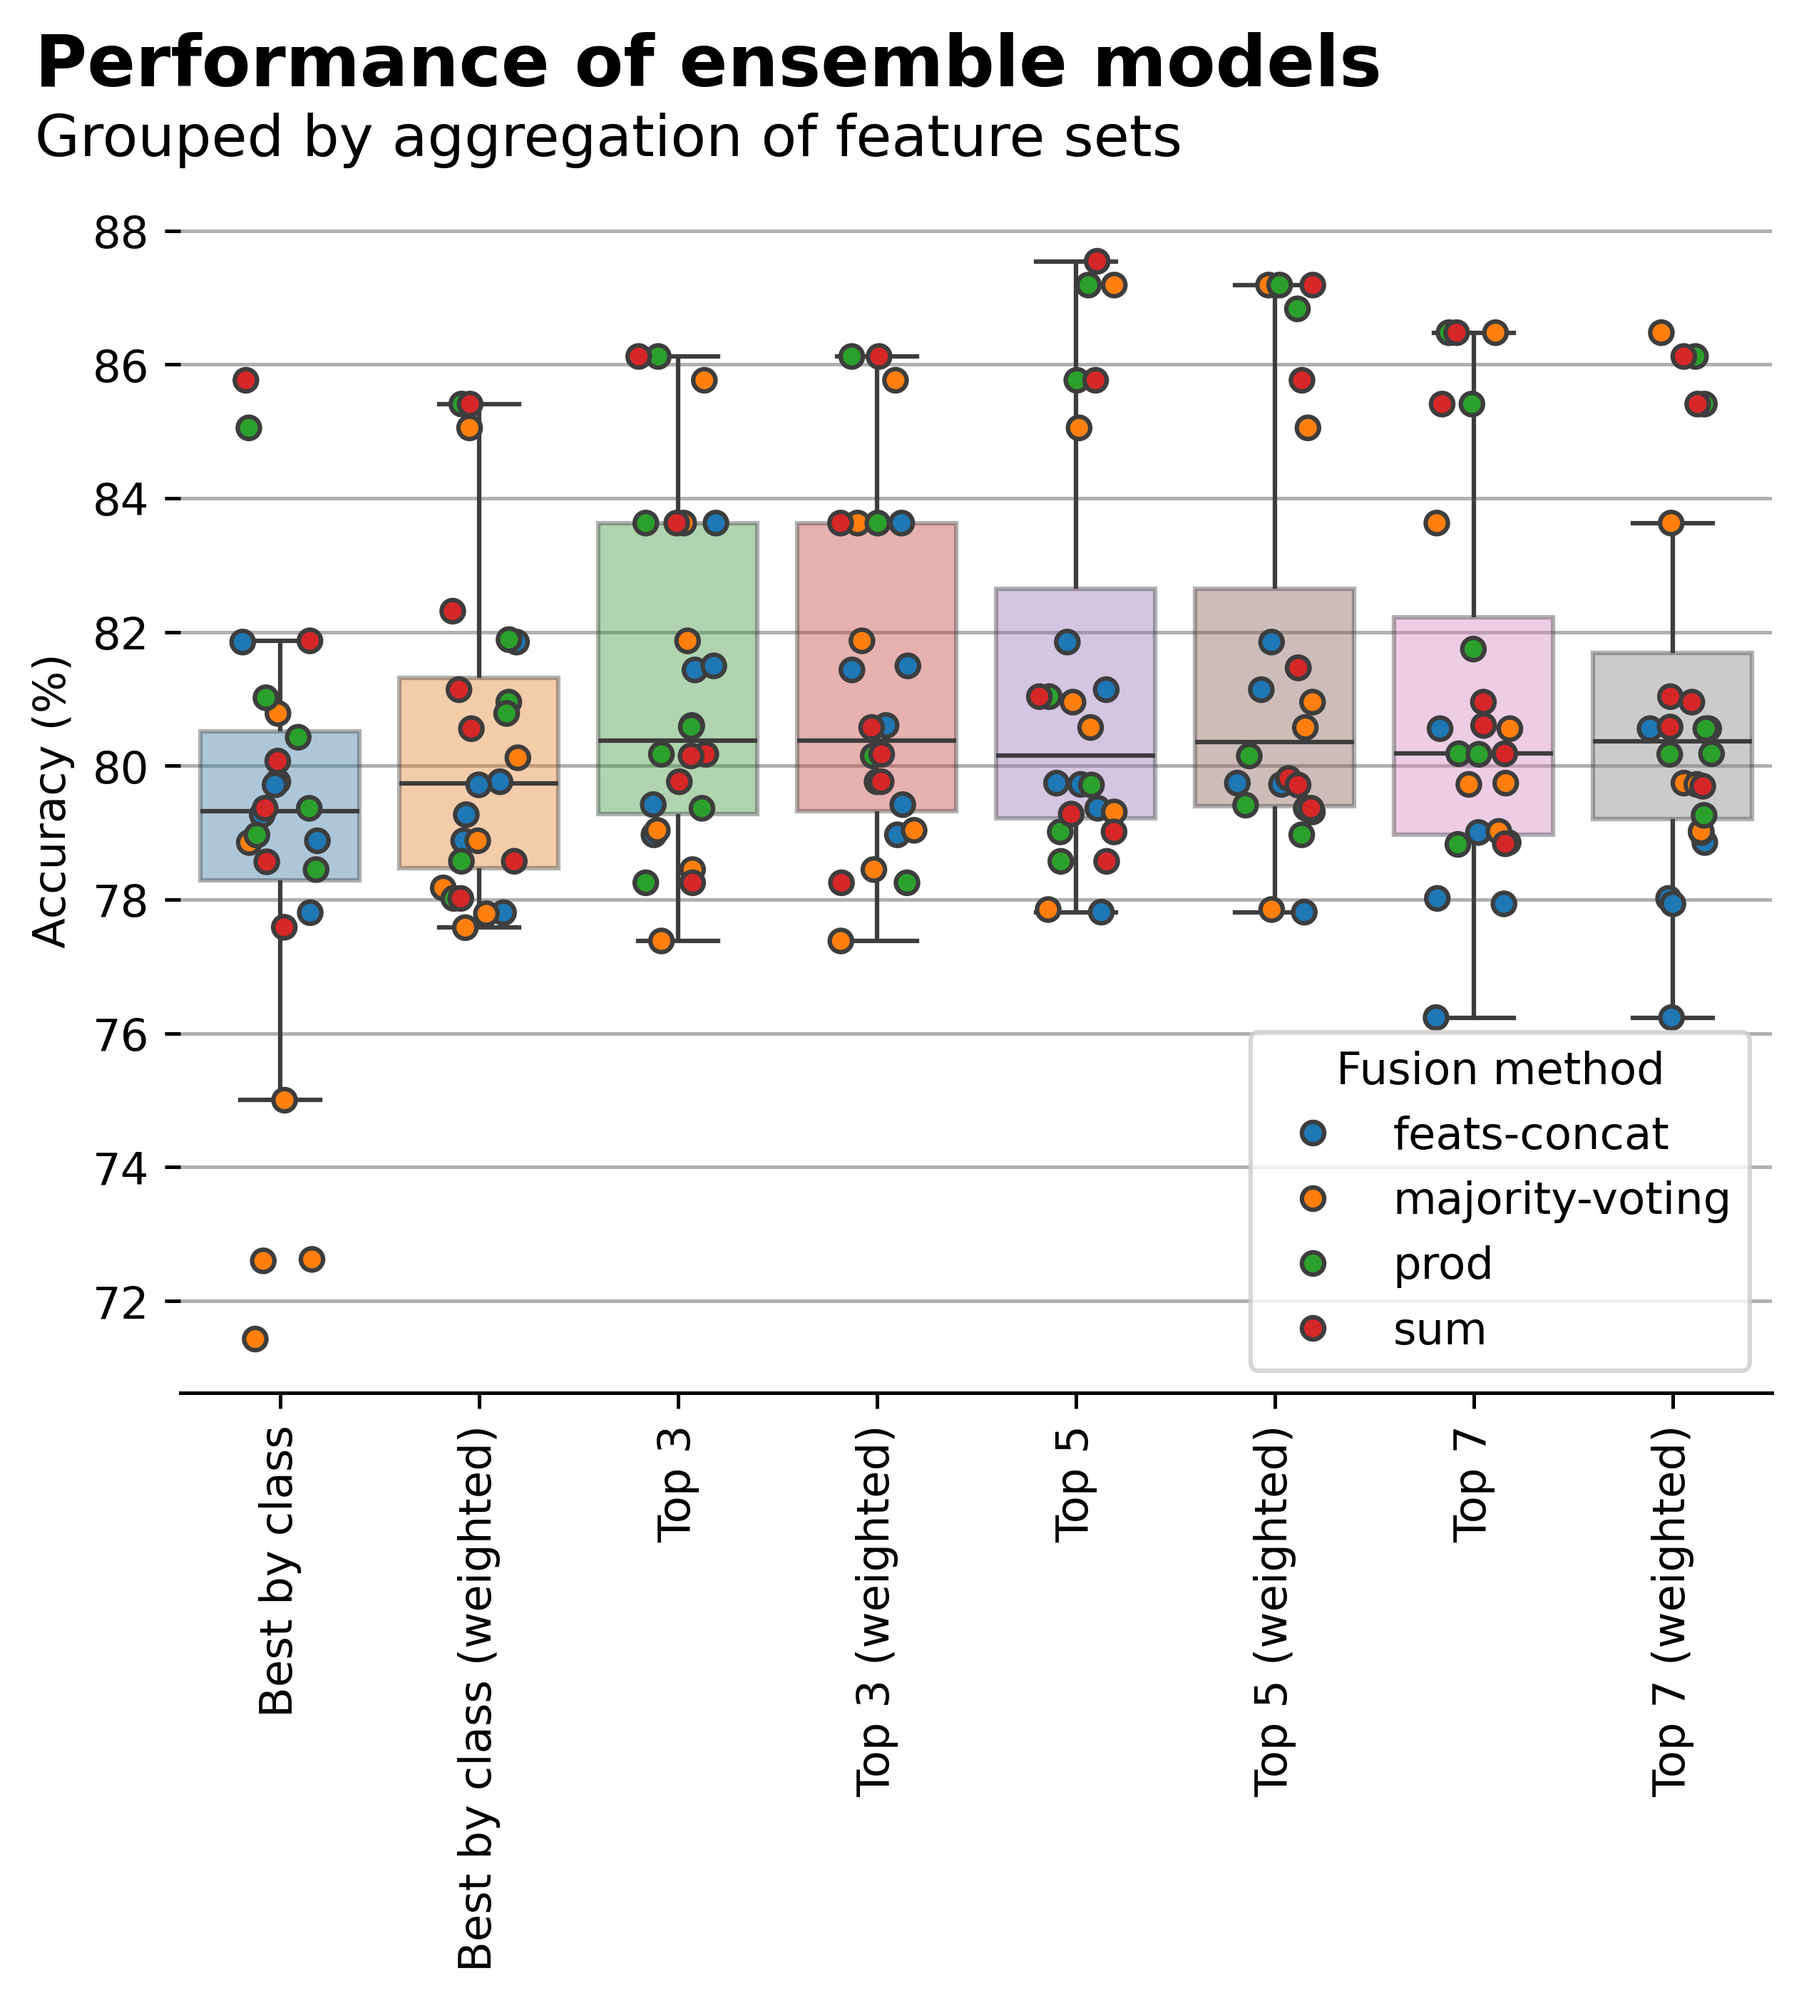
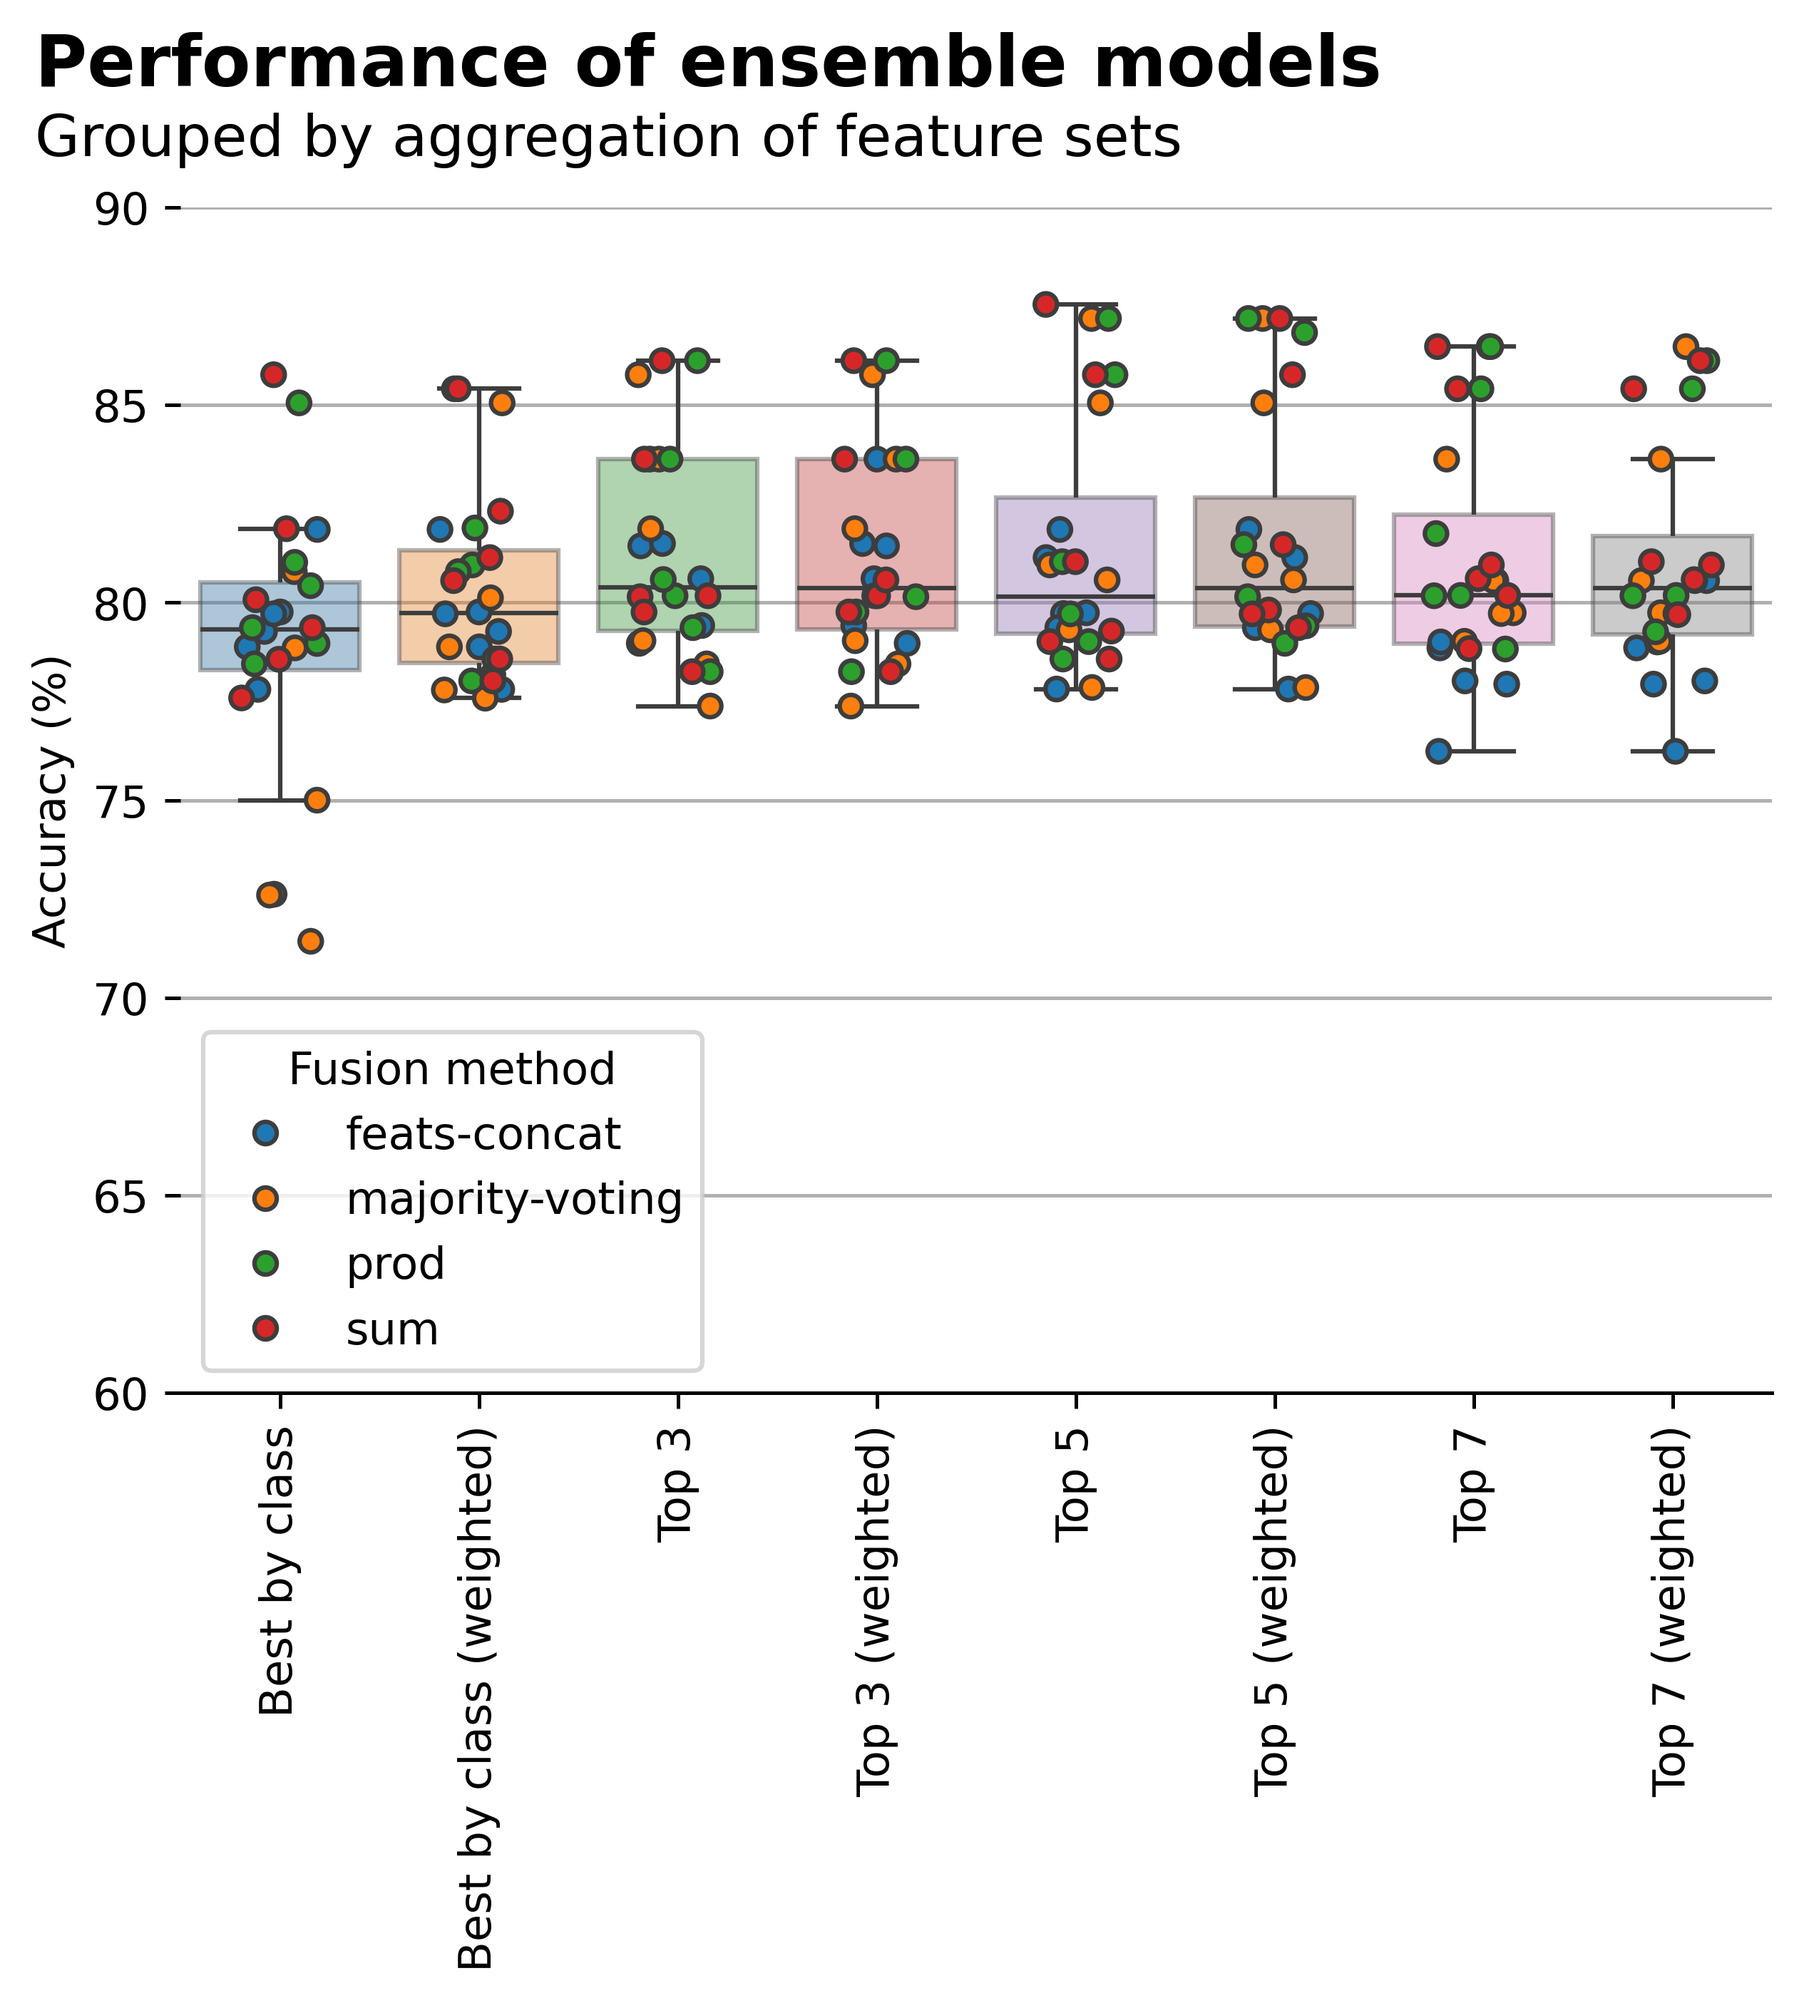
Updated charts (BUS-UCLM)

diff --git a/src/utilities/generate_charts.py b/src/utilities/generate_charts.py
@@ -35,6 +35,7 @@ ax.set(**{'xlabel': None, 'ylabel': 'Accuracy (%)'})
 ax.tick_params(axis='x', labelrotation=90)
 ax.grid(visible=True, axis='y')
 ax.spines[['top', 'right', 'left']].set_visible(False)
+ax.set_ylim(bottom=60, top=90)
 
 fig.savefig(f'{charts_folder}/by-aggregation-of-feature-sets.png', 
             dpi=450, bbox_inches='tight')
@@ -64,6 +65,7 @@ set_title_and_subtitle(fig=fig, title=title, subtitle=subtitle,
 
 ax.set(**{'xlabel': None, 'ylabel': 'Accuracy (%)'})
 ax.tick_params(axis='x', labelrotation=90)
+ax.set_ylim(bottom=60, top=90)
 ax.grid(visible=True, axis='y')
 ax.spines[['top', 'right', 'left']].set_visible(False)
 
